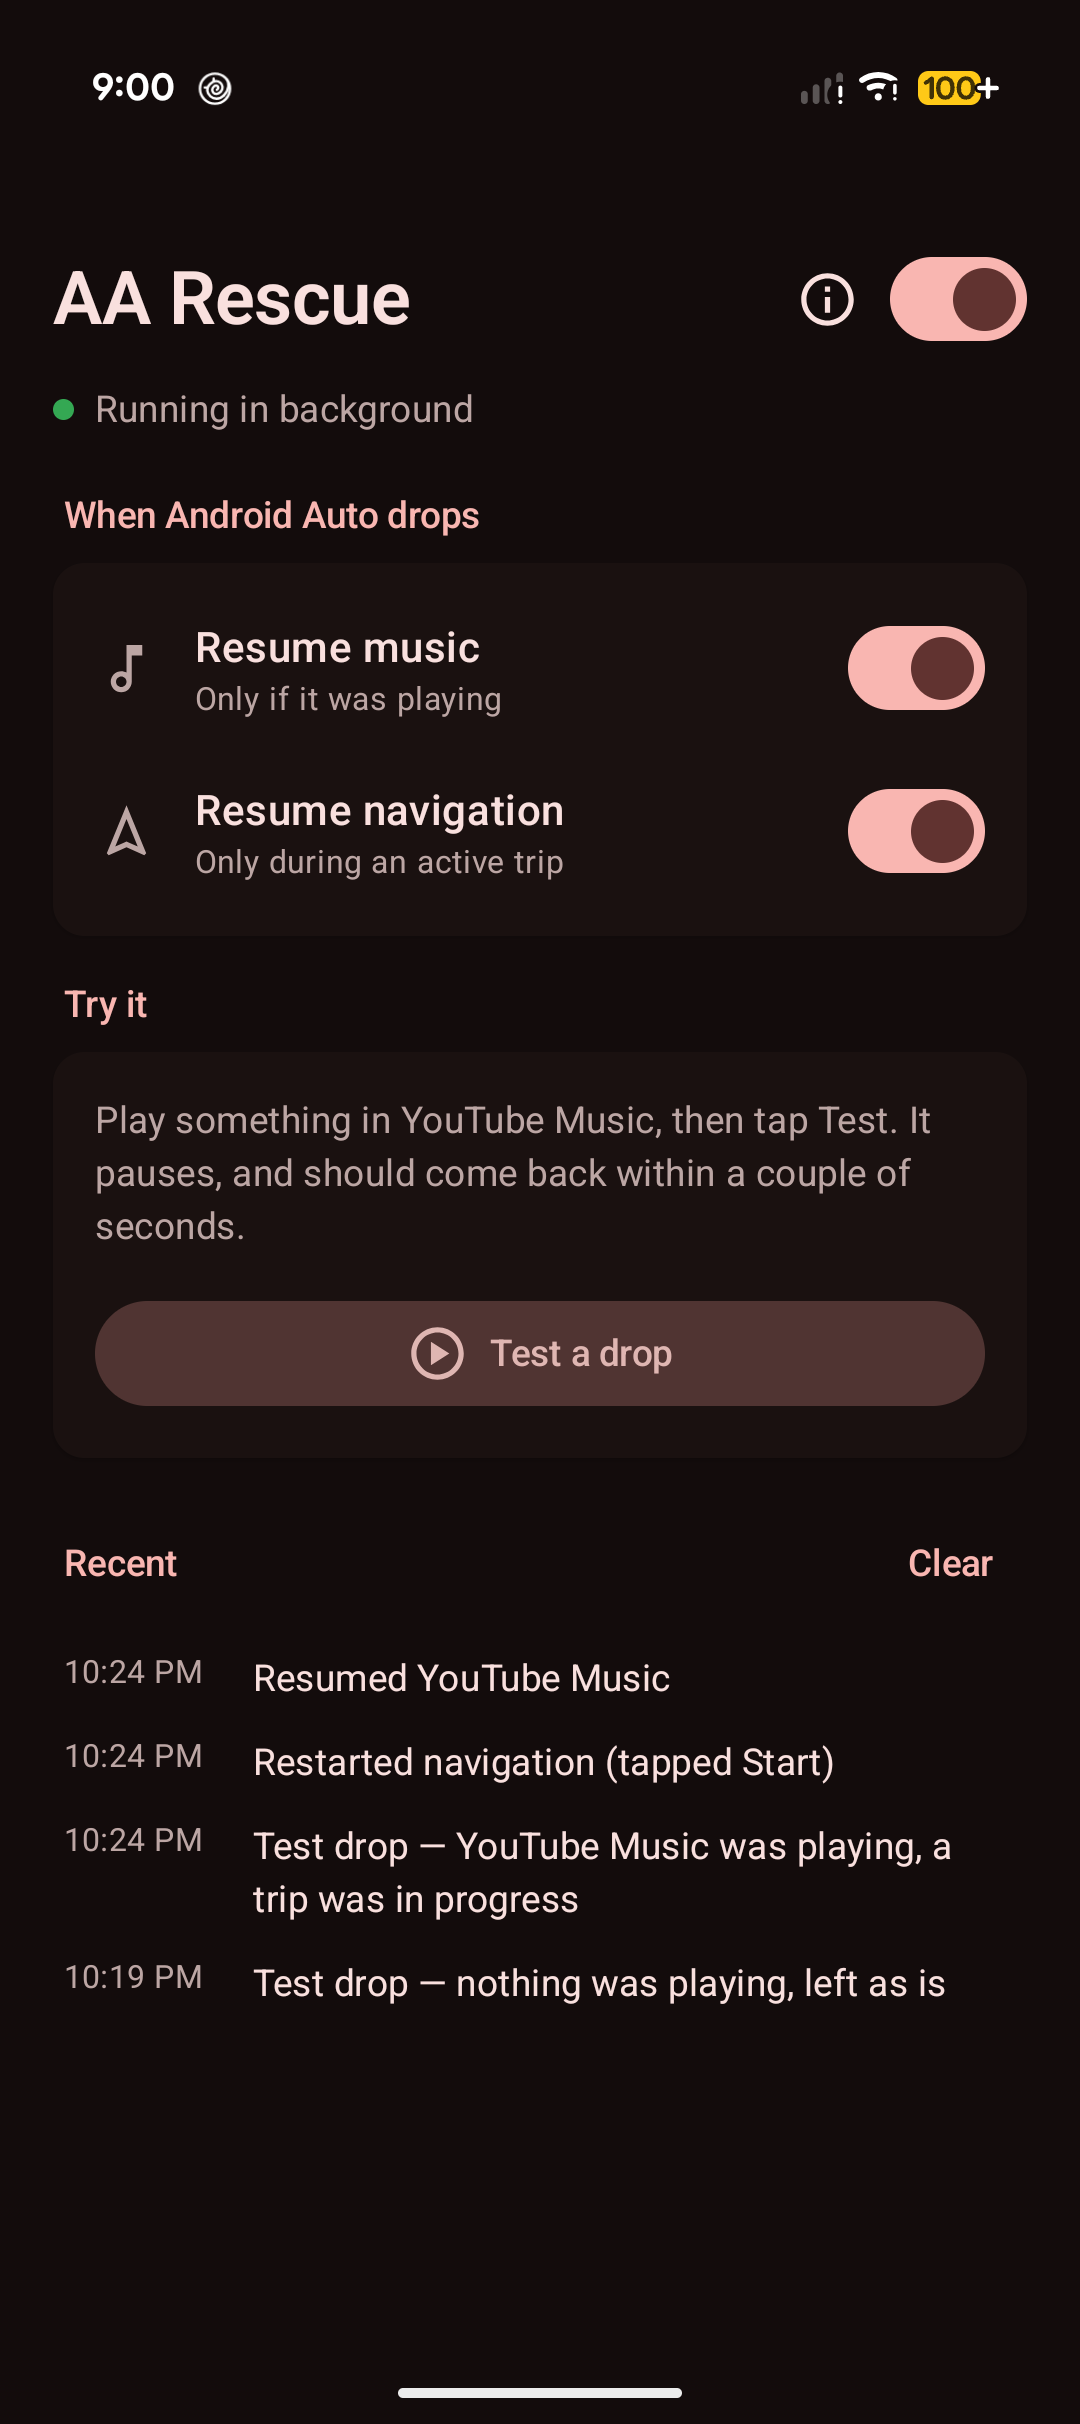
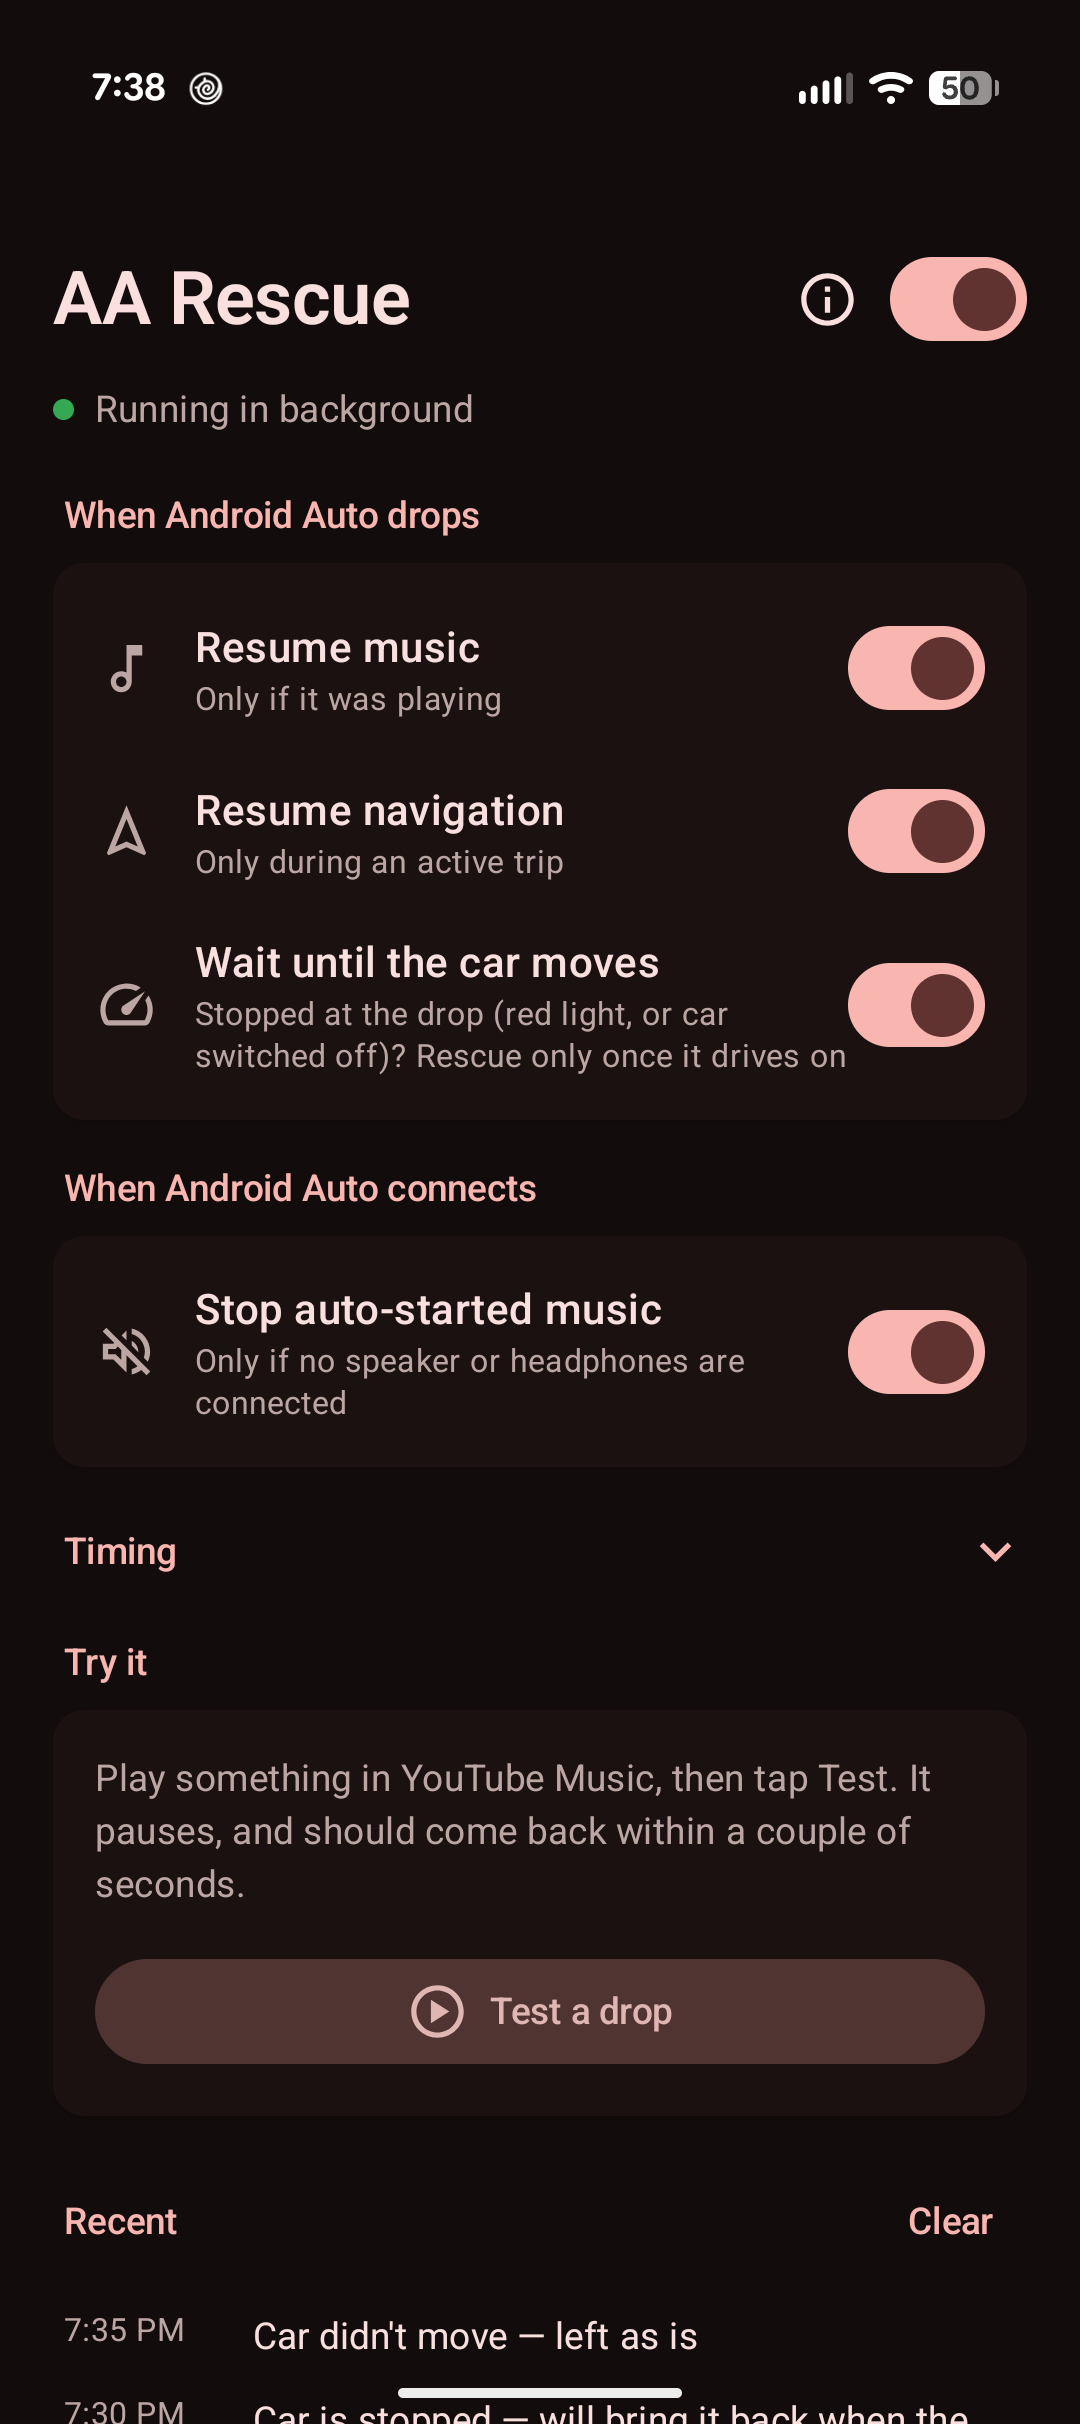
README: list every rescue, new screenshots for 0.1.8

diff --git a/README.md b/README.md
@@ -1,31 +1,44 @@
 # AA Rescue
 
-When a wireless Android Auto screen drops mid-drive, Android pauses your music and
-Google Maps falls out of navigation. AA Rescue notices the drop and puts things back:
-
-- **Music** — presses play again, but only if it was playing when the screen dropped.
-- **Navigation** — brings Google Maps forward and taps **Start**, but only during an active trip.
-
-It also handles the start of a drive: Android Auto's "Start music automatically" presses
-play when it connects, and with no speaker or headphones connected that comes out of the
-phone's own speaker. AA Rescue pauses it again (**Stop auto-started music**). With a
-Bluetooth speaker, headphones or a wired output connected, autoplay is left alone.
-
-A disconnect looks the same whether the screen glitched or you switched the car off, so
-AA Rescue checks the car's speed (**Wait until the car moves**): moving at the drop means
-rescue right away; stopped means wait, and rescue only if the car drives on within a few
-minutes. A car that was switched off never moves again, so nothing starts playing and Maps
-doesn't pop up.
-
-Nothing that was off gets turned on. Both behaviors can be toggled, and the switch at
-the top pauses everything. Timings (reaction delay, how long to keep music playing, how long
-to wait for an unlock, etc.) are adjustable under **Timing**.
+A wireless Android Auto screen that drops mid-drive takes your music and your navigation
+with it: Android pauses the music and Google Maps falls out of turn-by-turn. AA Rescue
+runs in the background, notices, and puts things back. Nothing that was off gets turned on.
 
 <p align="center">
-  <img src="docs/main.png" width="280" alt="Main screen: toggles, test button, recent drops">
-  &nbsp;&nbsp;
-  <img src="docs/info.png" width="280" alt="Info sheet: pausing vs. turning off">
+  <img src="docs/main.png" width="250" alt="Main screen: the four toggles and the test button">
+  &nbsp;
+  <img src="docs/recent.png" width="250" alt="Recent: what happened at each drop">
+  &nbsp;
+  <img src="docs/timing.png" width="250" alt="Timing: adjustable delays and the moving threshold">
 </p>
+
+## What it does
+
+**When Android Auto drops**
+
+| Rescue | What happens | Only if |
+|---|---|---|
+| **Resume music** | Presses play again on the app that was playing, and keeps it playing if Android pauses it late. Sound comes out wherever it was going: your Bluetooth speaker or headphones if connected, otherwise the phone. | It was playing when the screen dropped |
+| **Resume navigation** | Brings Google Maps to the front on the phone and taps **Start** / **Restart**, so turn-by-turn carries on even if the car screen never comes back. If the phone is locked, it does this as soon as you unlock. | A trip was in progress |
+| **Wait until the car moves** | Tells a glitch from the car being switched off. Moving at the drop: rescue right away. Stopped (red light, or you turned the car off): wait, and rescue only if the car drives on within 5 minutes. A switched-off car never moves again, so nothing starts playing and Maps doesn't pop up. | Location is allowed; otherwise every drop is rescued right away |
+
+If Android Auto reconnects by itself, AA Rescue stands down and leaves the session alone.
+
+**When Android Auto connects**
+
+| Rescue | What happens | Only if |
+|---|---|---|
+| **Stop auto-started music** | Android Auto's "Start music automatically" presses play on connect. On a screen that leaves the sound on the phone, that plays from the phone's own speaker; AA Rescue pauses it again. | No Bluetooth speaker, headphones, wired output or car-screen audio is available. Music you were already playing is left alone |
+
+**Controls**
+
+- Each rescue has its own toggle, and the switch at the top pauses all of them
+  ([pausing vs. turning off completely](docs/info.png)).
+- **Timing** adjusts the delays: reaction delay, how long to keep music playing, how long to
+  look for Start in Maps, how long to wait for an unlock or for the car to move, the
+  auto-start window, and the speed that counts as moving (15 km/h by default).
+- **Recent** shows, in plain words, what happened at each drop and what was done about it.
+- **Test a drop** fakes a drop so you can see music come back without a car.
 
 ## Privacy
 
